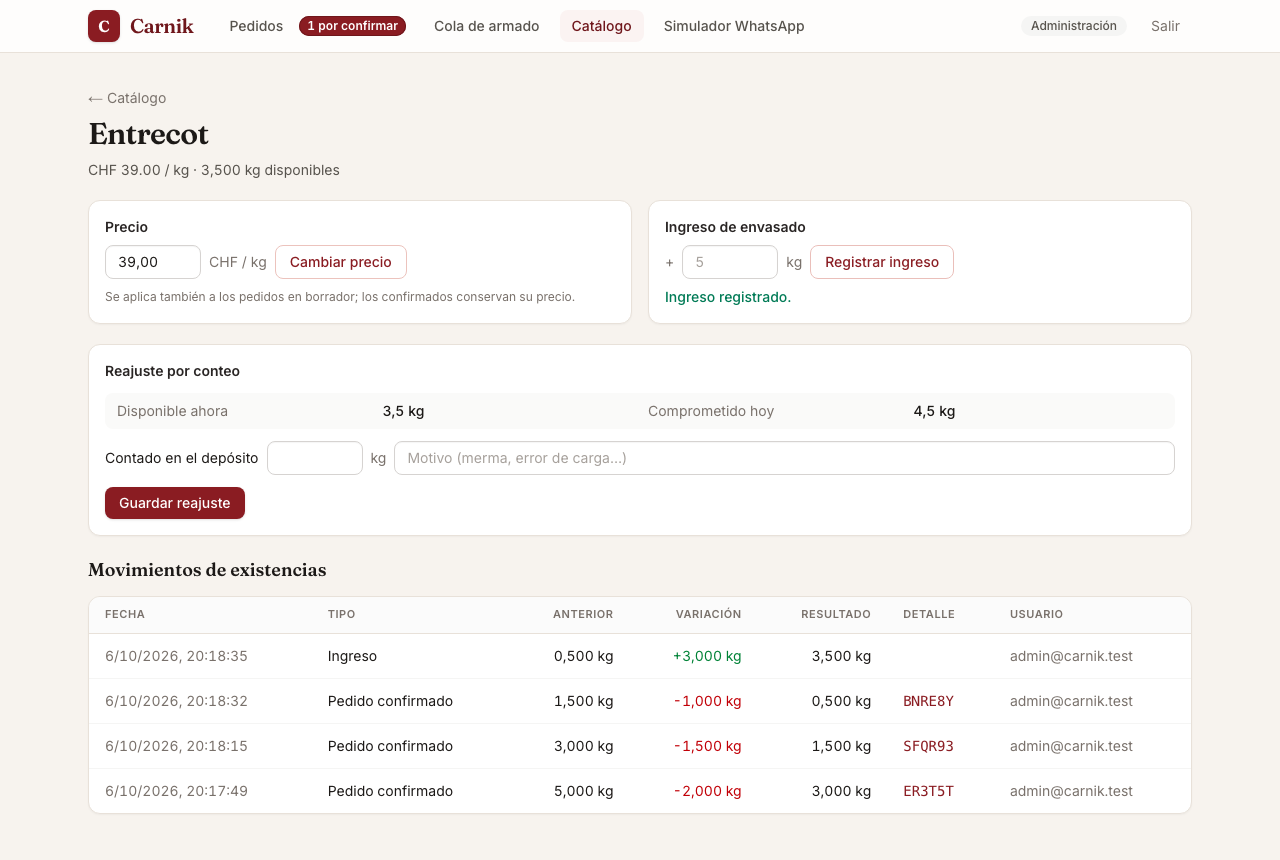
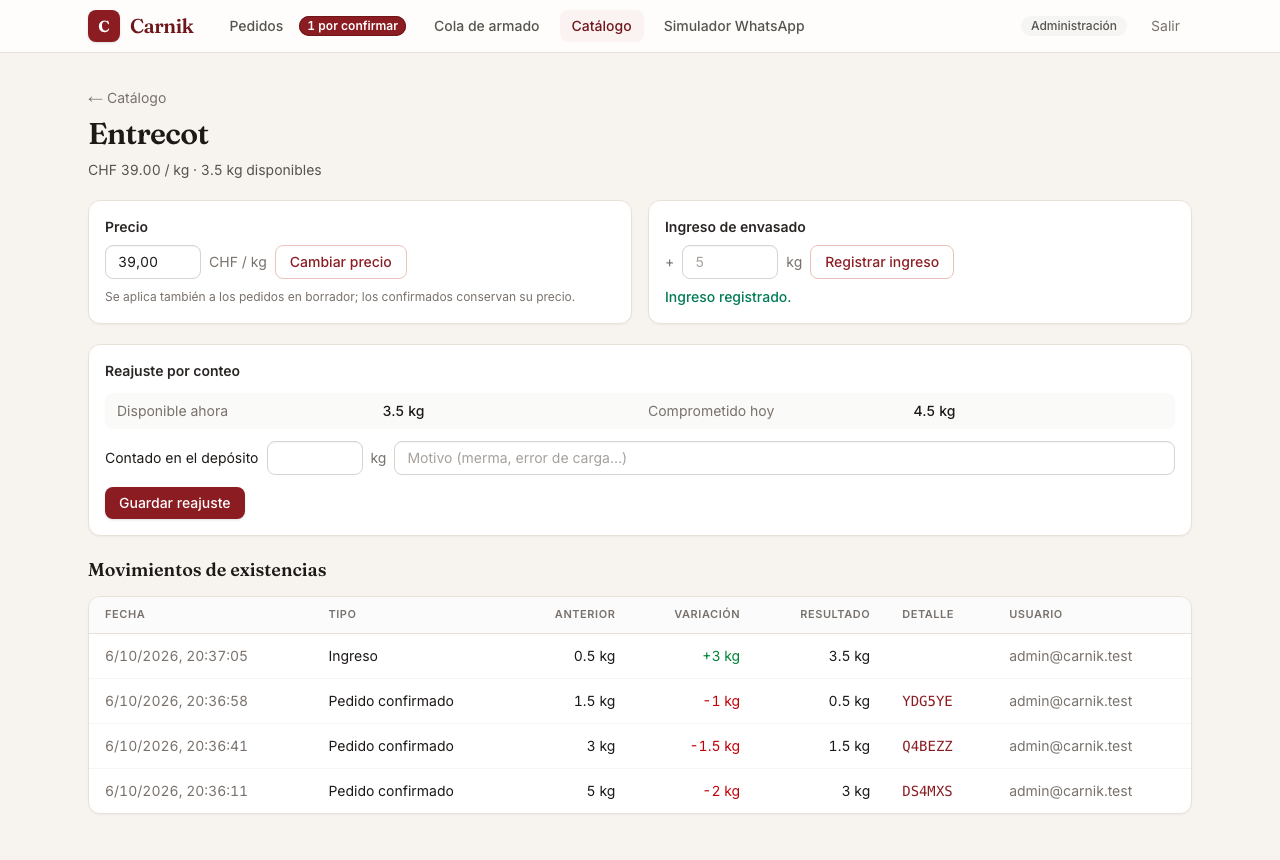
fix(ui): cantidades del catálogo con el mismo formato que pedidos y mensajes
El catálogo mostraba «6,500 kg» y el resto de la aplicación «1.5 kg». Se
unifica al formato de pedidos, cola de armado y mensajes al cliente, y se
regeneran las capturas. El readme anota que US-15 añadió el libro de
movimientos que la decisión de modelado 1 había descartado.

diff --git a/src/app/(staff)/admin/products/format.ts b/src/app/(staff)/admin/products/format.ts
@@ -2,6 +2,7 @@ import type { Prisma, ProductUnit } from "@prisma/client";
 
 export const unitLabel = (unit: ProductUnit) => (unit === "PIECE" ? "u." : "kg");
 
+/** Mismo formato que pedidos, cola de armado y mensajes al cliente: «1.5 kg», «6 u.». */
 export function formatStock(quantity: Prisma.Decimal, unit: ProductUnit): string {
-  return unit === "PIECE" ? `${quantity.toFixed(0)} u.` : `${quantity.toFixed(3).replace(".", ",")} kg`;
+  return unit === "PIECE" ? `${quantity.toFixed(0)} u.` : `${quantity.toNumber()} kg`;
 }

diff --git a/src/components/StockAdjustForm.tsx b/src/components/StockAdjustForm.tsx
@@ -6,7 +6,7 @@ import type { CatalogActionState } from "@/app/(staff)/admin/products/messages";
 
 type Props = { productId: string; unitLabel: string; stock: string; committed: string };
 
-const show = (n: number, unit: string) => `${n.toLocaleString("es-CH", { maximumFractionDigits: 3 })} ${unit}`;
+const show = (n: number, unit: string) => `${Number(n.toFixed(3))} ${unit}`;
 
 /**
  * Reajuste por conteo físico. Muestra lo comprometido hoy y anticipa el disponible

diff --git a/readme.md b/readme.md
@@ -1165,6 +1165,7 @@ Libro de existencias (`US-15`). Un asiento por cada variación de `Product.stock
 **1 · `stockQuantity` es un campo de `Product`, no una entidad `StockItem`**
 Sería una relación 1-a-1 estricta sin atributos propios. Separarla añadiría una tabla, un `join` en cada consulta de propuesta y una fila más en el seed.
 *Trade-off:* se pierde el historial de movimientos de existencias, que una tabla aparte daría gratis. No lo pide ninguna historia, y `Order.confirmedAt` más `Order.confirmedByUserId` cubren la trazabilidad que sí importa.
+*Revisión posterior:* `US-15` sí lo pidió. El historial se añadió como libro de movimientos (`StockMovement`, migración `add_stock_movement`), y `stockQuantity` sigue en `Product` como saldo vigente.
 
 **2 · Dinero en `Int` de céntimos, cantidades en `Decimal(10,3)`**
 Ningún importe es coma flotante. Las cantidades usan decimal exacto con tres posiciones, suficiente para gramos.
